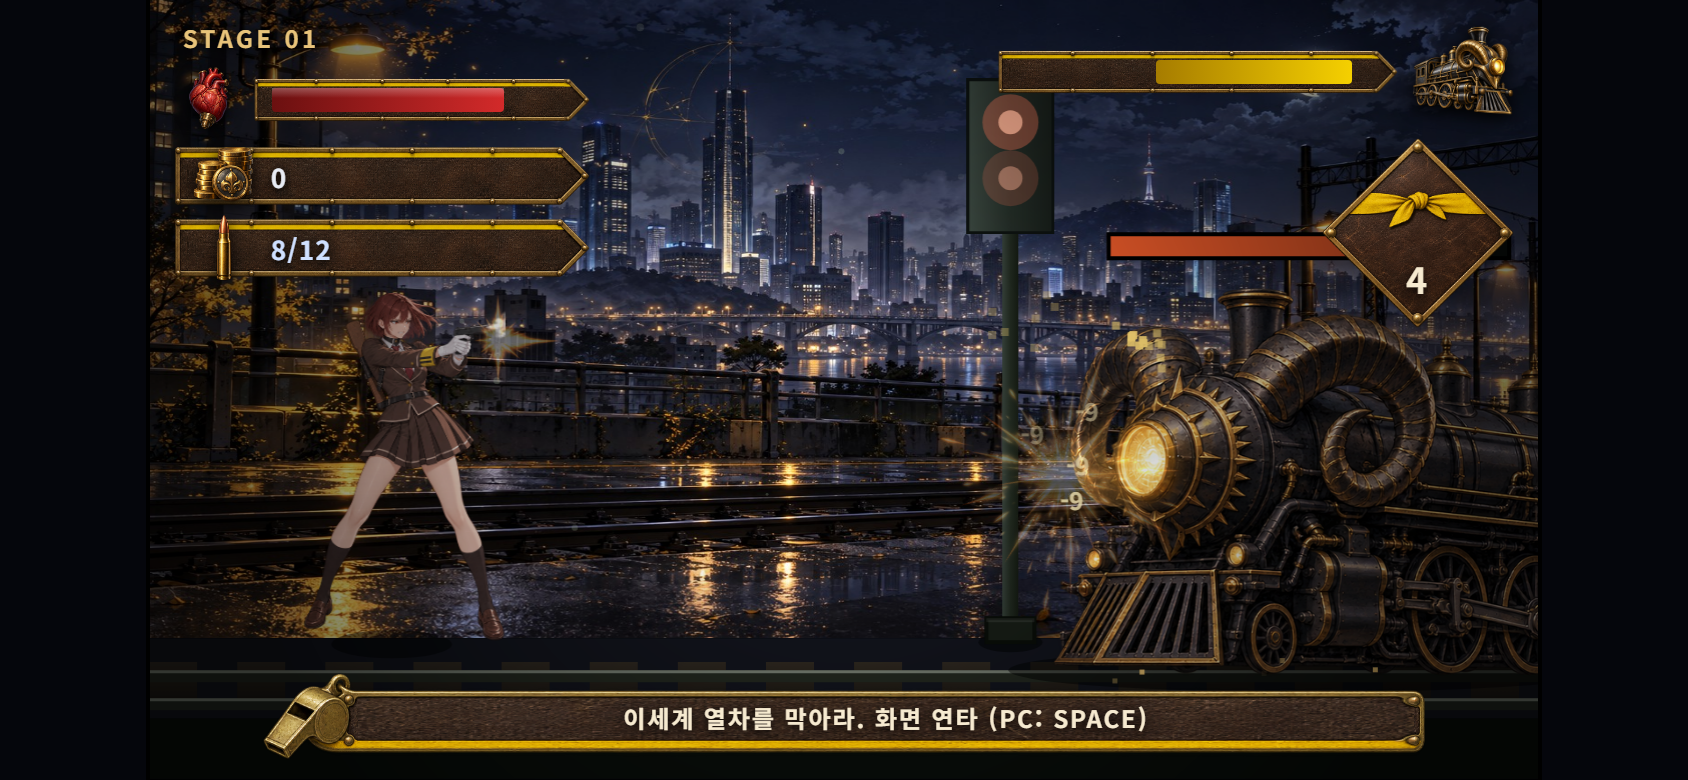
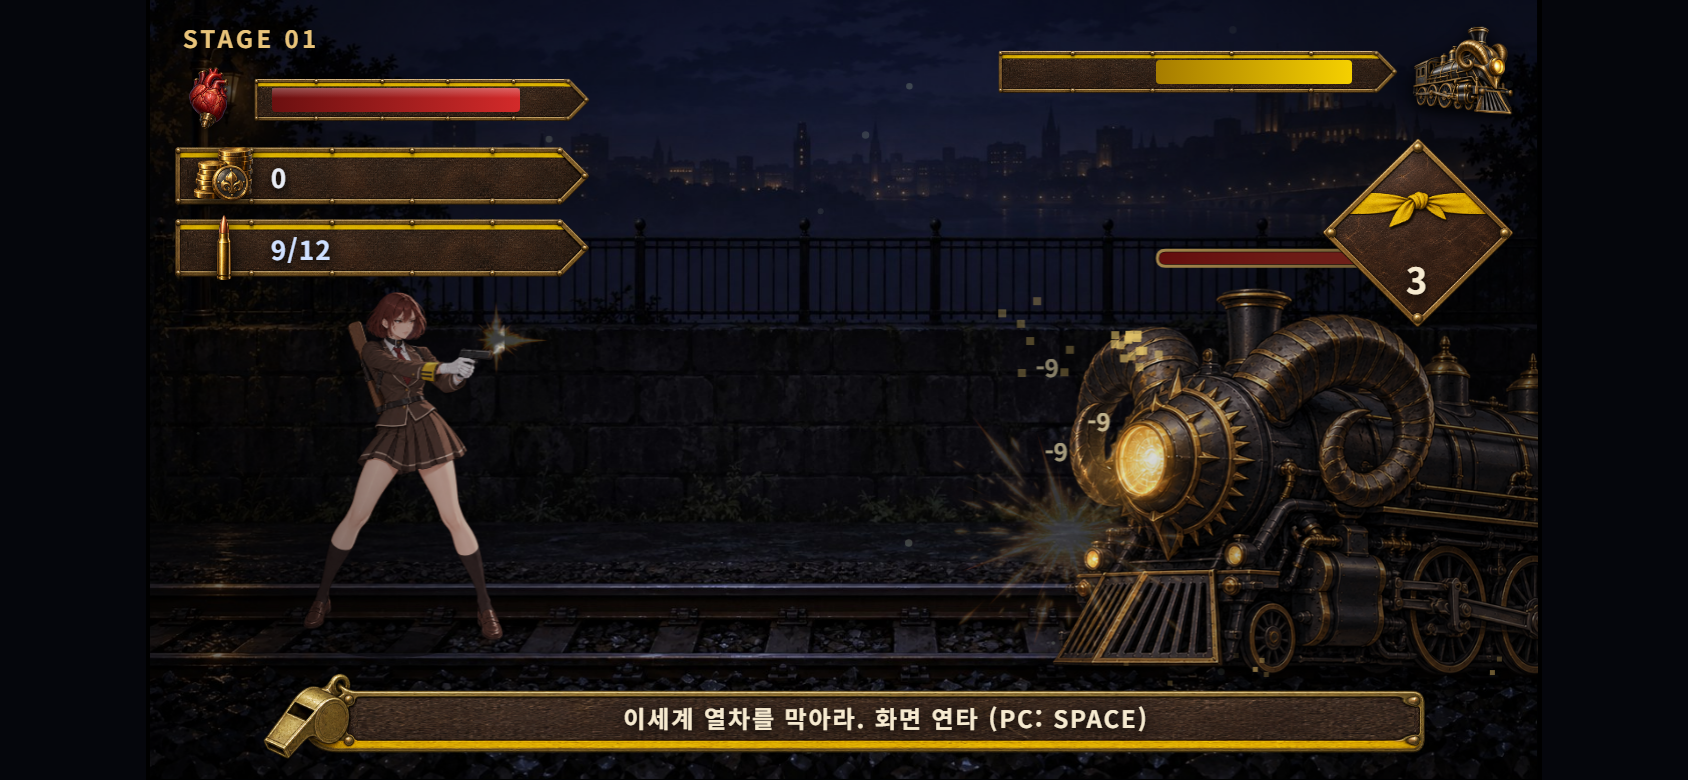
Side-view backdrop, no vector placeholders, turret sprite, kit-style train HP bar
Built from psh10004okpro/MiniDefence@506ec59 (train_stopper.html -> index.html).

diff --git a/index.html b/index.html
@@ -892,7 +892,7 @@
     // shieldman → warrior → indomitable are the 체육부장 growth line; rambo replaces the
     // companion at its top tier; drone/drone_up hover over the player
     ['player','train','zombie','companion','civilian','shieldman','warrior','indomitable','rambo','drone','drone_up',
-     'fx_muzzle','fx_spark','fx_fireball','fx_smoke','fx_ring','fx_block'].forEach(n=>{
+     'turret','fx_muzzle','fx_spark','fx_fireball','fx_smoke','fx_ring','fx_block'].forEach(n=>{
       const img = new Image();
       img.src = ASSET_DIR + n + '.png';
       SPR[n] = img;
@@ -2214,6 +2214,7 @@
   const PLAYER_SPR = { destH: 176, ax: 0.42, mNx: 0.94, mNy: 0.135 };
   const COMPANION_SPR = { destH: 148, ax: 0.40, mNx: 0.94, mNy: 0.117 };
   const RAMBO_SPR = { destH: 156, ax: 0.42, mNx: 0.99, mNy: 0.32 };
+  const TURRET_SPR = { destH: 60, ax: 0.5, mNx: 0.98, mNy: 0.3 };
   const ATK_FPS = 16;
   const ATK_LEN = 4;
   let atkFrame = -1;
@@ -2221,6 +2222,7 @@
   function getPlayerMuzzle(px, groundY){
     if(hasTurret && !hasSniper){
       const gx = px + TURRET_OFFSET_X, gy = groundY - 34;
+      if(sprOk('turret')) return spriteMuzzle(SPR.turret, gx + 6, groundY, TURRET_SPR);
       return { x: gx+34, y: gy };
     }
     if(sprOk('player')){
@@ -2652,7 +2654,8 @@
     const groundY = H * 0.82;
 
     if(sprOk('bgPlay')){
-      ctx.drawImage(SPR.bgPlay, 0, 0, W, groundY);
+      // the painted side-view backdrop carries its own track bed (rail top at 82%), so it fills the stage
+      ctx.drawImage(SPR.bgPlay, 0, 0, W, H);
     } else {
       ctx.drawImage(paint.sky.c, 0, 0, paint.sky.w, paint.sky.h);
       for(let x = 0; x < W+90; x += 90){
@@ -2667,7 +2670,9 @@
       ctx.beginPath(); ctx.arc(d.x, d.y, d.r, 0, Math.PI*2); ctx.fill();
     });
 
-    ctx.fillStyle = sprOk('bgPlay') ? '#12141c' : '#10160f';
+    if(sprOk('bgPlay')) return groundY;
+
+    ctx.fillStyle = '#10160f';
     ctx.fillRect(0, groundY, W, H-groundY);
 
     for(let x = 0; x < W+44; x += 44){
@@ -2686,40 +2691,6 @@
     ctx.fillRect(0, groundY+40, W, H-(groundY+40));
 
     return groundY;
-  }
-
-  function drawSignal(x, groundY){
-    const topY = groundY - 210;
-
-    ctx.drawImage(paint.signalPole.c, x-4, topY, 8, groundY - topY);
-
-    // contact shadow where the pole meets the ground
-    ctx.fillStyle = 'rgba(0,0,0,0.45)';
-    ctx.beginPath();
-    ctx.ellipse(x, groundY+2, 16, 5, 0, 0, Math.PI*2);
-    ctx.fill();
-
-    // base plate / foundation so it reads as planted, not floating
-    ctx.fillStyle = '#171d16';
-    ctx.fillRect(x-12, groundY-10, 24, 12);
-    ctx.strokeStyle = '#0a0e09'; ctx.lineWidth = 2;
-    ctx.strokeRect(x-12, groundY-10, 24, 12);
-    ctx.fillStyle = 'rgba(255,255,255,0.08)';
-    ctx.fillRect(x-12, groundY-10, 24, 2);
-
-    ctx.drawImage(paint.signalBox.c, x-22, topY-70, 44, 78);
-
-    const glow = 0.55 + Math.sin(performance.now()/260)*0.35;
-    ctx.fillStyle = `rgba(255,120,90,${glow * 0.45})`;
-    ctx.beginPath(); ctx.arc(x, topY-48, 14, 0, Math.PI*2); ctx.fill();
-    ctx.fillStyle = `rgba(255,180,150,${glow})`;
-    ctx.beginPath(); ctx.arc(x, topY-48, 6, 0, Math.PI*2); ctx.fill();
-
-    const glow2 = 0.4 + (1-glow)*0.5;
-    ctx.fillStyle = `rgba(255,120,90,${glow2 * 0.45})`;
-    ctx.beginPath(); ctx.arc(x, topY-20, 14, 0, Math.PI*2); ctx.fill();
-    ctx.fillStyle = `rgba(255,180,150,${glow2})`;
-    ctx.beginPath(); ctx.arc(x, topY-20, 6, 0, Math.PI*2); ctx.fill();
   }
 
   function drawPlayer(px, groundY, flashT, recoilT, hasMagnum, hasRifle){
@@ -3043,6 +3014,18 @@
 
   function drawTurret(px, groundY, flashT){
     const gx = px + TURRET_OFFSET_X, gy = groundY - 34;
+    if(sprOk('turret')){
+      ctx.save();
+      ctx.fillStyle = 'rgba(0,0,0,0.35)';
+      ctx.beginPath(); ctx.ellipse(gx+6, groundY+2, 24, 5, 0, 0, Math.PI*2); ctx.fill();
+      drawSprite(SPR.turret, gx + 6, groundY + 2, TURRET_SPR.destH, TURRET_SPR.ax);
+      if(flashT > 0){
+        const m = getPlayerMuzzle(px, groundY);
+        drawFx('fx_muzzle', m.x + 14, m.y, 52*flashT + 18, Math.min(1, flashT*1.3), 0, true);
+      }
+      ctx.restore();
+      return;
+    }
     ctx.save();
 
     ctx.fillStyle = 'rgba(0,0,0,0.35)';
@@ -3795,6 +3778,7 @@
 
   function drawSmokePuff(){
     smoke.forEach(s=>{
+      if(drawFx('fx_smoke', s.x, s.y, s.r*2.6, s.life*0.45, 0, false)) return;
       ctx.fillStyle = `rgba(90,100,92,${s.life*0.35})`;
       ctx.beginPath(); ctx.arc(s.x, s.y, s.r, 0, Math.PI*2); ctx.fill();
     });
@@ -3855,6 +3839,30 @@
     ctx.restore();
   }
 
+  function pathRoundRect(x, y, w, h, r){
+    r = Math.min(r, w/2, h/2);
+    ctx.beginPath();
+    ctx.moveTo(x+r, y); ctx.lineTo(x+w-r, y); ctx.quadraticCurveTo(x+w, y, x+w, y+r);
+    ctx.lineTo(x+w, y+h-r); ctx.quadraticCurveTo(x+w, y+h, x+w-r, y+h);
+    ctx.lineTo(x+r, y+h); ctx.quadraticCurveTo(x, y+h, x, y+h-r);
+    ctx.lineTo(x, y+r); ctx.quadraticCurveTo(x, y, x+r, y); ctx.closePath();
+  }
+  // slim brass-framed bar floating over the train, same colors as the leather HUD kit
+  function drawTrainHpBar(cx, y, hpRatio){
+    const w = 150, h = 8;
+    ctx.save();
+    ctx.translate(cx - w/2, y);
+    ctx.fillStyle = 'rgba(12,9,6,0.85)';
+    pathRoundRect(0, 0, w, h, 4); ctx.fill();
+    const g = ctx.createLinearGradient(0, 0, w, 0);
+    g.addColorStop(0, '#7a1010'); g.addColorStop(1, hpRatio > 0.3 ? '#e04a3a' : '#f06a3a');
+    ctx.fillStyle = g;
+    pathRoundRect(1, 1, Math.max(0, (w-2) * Math.max(0, Math.min(1, hpRatio))), h-2, 3); ctx.fill();
+    ctx.strokeStyle = '#c9a45c'; ctx.lineWidth = 1.5;
+    pathRoundRect(0, 0, w, h, 4); ctx.stroke();
+    ctx.restore();
+  }
+
   function drawTrain(x, scale, groundY, hpRatio, dt){
     const bodyW = 260, bodyH = 150;
     const y0 = groundY - bodyH - 14;
@@ -3874,17 +3882,14 @@
       ctx.drawImage(SPR.train, x - 130, groundY - destH + 22, destW, destH);
       ctx.save();
       ctx.translate(x, 0);
-      const barW = 200;
-      ctx.fillStyle = '#0c100e';
-      ctx.fillRect(-barW/2, y0-38, barW, 12);
-      ctx.fillStyle = hpRatio>0.3 ? '#e85a2a' : '#c83818';
-      ctx.fillRect(-barW/2, y0-38, barW*Math.max(0,hpRatio), 12);
-      ctx.strokeStyle = '#000'; ctx.lineWidth=2;
-      ctx.strokeRect(-barW/2, y0-38, barW, 12);
+      drawTrainHpBar(0, y0-30, hpRatio);
       if(onSecondCar){
-        const pulse = 0.25 + Math.sin(performance.now()/140)*0.2;
-        ctx.fillStyle = `rgba(220,30,20,${Math.max(0,pulse)})`;
-        ctx.fillRect(-130, y0, destW, bodyH);
+        // car 2 is burning: painted flames licking along the roof (relative to the train's x)
+        const tNow = performance.now();
+        [[-70, 0.9], [10, 1.1], [90, 0.8], [170, 1.0]].forEach(([ox, k], i)=>{
+          const flick = 0.75 + Math.sin(tNow / (90 + i*17) + i) * 0.25;
+          drawFx('fx_fireball', ox + Math.sin(tNow/230 + i)*4, y0 + 2 - flick*10, (36 + i*4) * k * flick, 0.7, 0, true);
+        });
       }
       ctx.restore();
       if(onSecondCar && state === 'playing' && Math.random() < 0.5){
@@ -3969,13 +3974,7 @@
       ctx.drawImage(paint.wheel.c, wx-20, wy-20, 40, 40);
     }
 
-    const barW = 200;
-    ctx.fillStyle = '#0c100e';
-    ctx.fillRect(-barW/2, y0-38, barW, 12);
-    ctx.fillStyle = hpRatio>0.3 ? '#e85a2a' : '#c83818';
-    ctx.fillRect(-barW/2, y0-38, barW*Math.max(0,hpRatio), 12);
-    ctx.strokeStyle = '#000'; ctx.lineWidth=2;
-    ctx.strokeRect(-barW/2, y0-38, barW, 12);
+    drawTrainHpBar(0, y0-30, hpRatio);
 
     if(onSecondCar){
       // burning, and pulsing red since he's the last car standing
@@ -4499,8 +4498,6 @@
 
     const groundY = drawBackground(now, dt);
     const px = W * PLAYER_X_RATIO;
-    const signalX = W*0.62;
-    drawSignal(signalX, groundY);
 
     if(state === 'playing'){
       // shared calc of the train's current leading edge, used for contact + death position
@@ -4787,7 +4784,8 @@
     hpFill.style.width = (100*Math.max(0,trainHP)/Math.max(1,trainMaxHP)) + '%';
     distFill.style.width = (100*(1-t)) + '%';
     comboVal.textContent = mashRate;
-    ammoLine.textContent = isReloading ? '…' : (currentAmmo + '/' + currentWeaponStats().mag);
+    const magNow = currentWeaponStats().mag;
+    ammoLine.textContent = isReloading ? '…' : (magNow === Infinity ? '∞' : (currentAmmo + '/' + magNow));
     ammoLine.style.color = isReloading ? '#ff9a6a' : '#cfe0ff';
 
     requestAnimationFrame(loop);

diff --git a/plan/index.html b/plan/index.html
@@ -305,6 +305,7 @@
     <tr><td>색</td><td>배경 남흑 <code>#07080f</code>·<code>#10131c</code> / UI 가죽 갈색 / 황동 <code>#c9a45c</code>·<code>#e8c37a</code> / 완장 노랑 <code>#f5d000</code>(강조·거리 바) / 크림 글자 <code>#f6ead0</code> / 경고·광고 빨강 <code>#e35d6a</code>. 열차 체력 바만 빨강, 거리 바는 노랑</td></tr>
     <tr><td>버튼</td><td>갈색 가죽 캡슐 + 왼쪽 끝 노란 완장 띠 = 진행·구매·메뉴 전부(게임 시작, 구매, 다음 열차, 근무 수첩, 설정, 닫기) / 빨간 가죽 = 광고 하나뿐. 못 사는 버튼은 흐리게 잠근다</td></tr>
     <tr><td>패널</td><td>갈색 가죽 판에 황동 리벳 테두리, 위쪽에 노란 띠(<code>ui_over_panel</code>·<code>ui_shop_card</code>·<code>ui_title_plate</code>). HUD 바는 오른쪽이 뾰족한 가죽 띠, 연타 판은 완장 매듭이 그려진 마름모. 비품실과 근무 수첩은 같은 3열 카드 레이아웃을 쓴다. <b>판과 바는 9-slice(<code>border-image</code>)로 그린다</b> — 끝단·리벳·호루라기·동전은 고정하고 가운데만 반복한다. 배경 이미지를 <code>100% 100%</code>로 늘려 붙이지 않는다</td></tr>
+    <tr><td>배경</td><td>전투 배경은 <b>눈높이 사이드뷰</b> 선로 한 장(<code>bg_loop.jpg</code>)이 화면 전체를 덮는다: 근접 선로 윗면이 높이 82% 지면선, 캐릭터가 서는 35~82% 띠는 어둡고 장식 없음, 스카이라인은 작고 흐리게. 신호등·선로 두 줄·검은 띠 같은 벡터 플레이스홀더는 쓰지 않는다. 열차 위 체력 바는 황동 테두리의 얇은 바, 2호차는 화염 스프라이트로 불탄다</td></tr>
     <tr><td>아이콘</td><td>채택안 9 일러스트 아이콘: 하트(열차 체력)·금화(골드)·탄피(탄약)·숫양 열차(거리)·장갑(연타)</td></tr>
     <tr><td>이펙트</td><td>스프라이트 6종(<code>fx_muzzle</code> 총구 화염, <code>fx_spark</code> 타격 스파크, <code>fx_fireball</code>·<code>fx_smoke</code> 폭발, <code>fx_ring</code> 충격파, <code>fx_block</code> 저지 장벽)을 가산 합성(lighter)으로 그린다. 파편·예광탄은 벡터 그대로</td></tr>
     <tr><td>문구</td><td>짧은 명사형, 가운뎃점(·)으로 잇는다. 모바일 기준이라 「클릭」이 아니라 「탭」. 숫자 단위: 골드 <code>G</code>, 연타 <code>타/초</code>, 공로는 단위 없이 숫자</td></tr>
